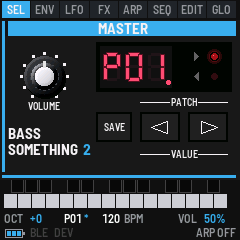
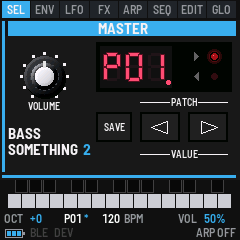
HOME: flat, centred panel and keys; manual and site open on HOME playing
HOME: the face plate flat (no shaded cheeks), zoomed so its bars sit 8 px
from each edge (HOME_L), the P01 display to its right edge, the scope 2 px
shorter for the panel's growth; the line over the keys solid from the left,
the Transpose and Function buttons gone. The keys' strip centred (8 px each
side), on every page.

Manual: section 8 opens on the RND Synth Companion splash; the opening
screenshot, the site's landing and its og:image are HOME with a note
playing (screen-home.png); screen-ready.png retired. Screenshots and
SIZE_LOG rows updated.

Changed region(s): [[0.0, 0.7292, 0.9625, 0.875]]

diff --git a/app.c b/app.c
@@ -4488,7 +4488,7 @@ static void level_col(int32_t i, float v, int32_t h)   /* -1..1 to the column's 
  * the sub's when it's in the mix: an octave or two under) from its steepest rising zero crossing, so a held note stands
  * still; scaled to its own level (a quiet sound as big), its trace with a
  * dim glow under it; a flat line in silence */
-enum { SC_X = 4, SC_Y = 59, SC_W = 232, SC_H = 31 };   /* (clear of the display's edge, over the panel's) */
+enum { SC_X = 4, SC_Y = 59, SC_W = 232, SC_H = 29 };   /* (clear of the display's edge, over the panel's) */
 static int scope_live(void) { return voice.amp.stage != ENV_IDLE; }
 static void scope_paint(void)
 {
@@ -4574,9 +4574,11 @@ static void cpu_text(char *t)                /* "CPU 34/41", "CPU 34/41 !2" */
  * wheels' left edge to the keys' right end, 125.4 of bgoonz/bass-station's rem, over the footer's 224 px: 25/14 px a
  * rem), its foot on them; each control where that layout has it (in tenths of its rem: h_*) and as the sound has it.
  * Over it the name and the display, large */
-#define HOME_Y 92                            /* the panel's top (its 38 rem down to the keys) */
-#define HL(r) ((r) * 25 / 140)               /* tenths of a rem: px */
-#define HX(r) (4 + HL((r) - 45))
+#define HOME_Y 90                            /* the panel's top (its 38 rem down to the keys) */
+#define HOME_L 8                             /* the panel's bars' margin, each side alike (63 .. 1293 tenths), as the
+                                              * keys' (keys_draw) */
+#define HL(r) ((r) * (240 - 2 * HOME_L) / 1230)   /* tenths of a rem: px */
+#define HX(r) (HOME_L + HL((r) - 63))
 #define HY(r) (HOME_Y + HL(r))
 static void h_rect(int32_t x, int32_t y, int32_t w, int32_t h, uint16_t c)   /* at least a pixel each way */
 {
@@ -4647,7 +4649,6 @@ static void home_draw(void)
 {
     static const int16_t TOP_GAP[3] = {333, 753, 924}, MID_GAP[4] = {333, 402, 693, 1140};
     static const int16_t KT_GAP[7] = {395, 526, 767, 860, 940, 982, 1062};
-    static const uint8_t CHEEK[8] = {4, 16, 28, 40, 45, 36, 28, 20};   /* across the left one, black to its ridge */
     static const uint8_t WAVE_LED[NWAVES] = {2, 3, 0, 1, 3};   /* WAVE_*: the LEDs' sine, triangle, saw, square */
     const param_t *osc = ui.osc_sel ? OSC2_P : PARAMS[PG_OSC], *env = ui.env_sel == 1u ? MENV_P : PARAMS[PG_AENV];
     const uint32_t f = patch.filter, acid = f == FLT_ACID, trig = patch.env_trig[ui.env_sel == 1u];
@@ -4662,17 +4663,14 @@ static void home_draw(void)
     slot_text(d + 1);
     if (ui.org_at)                           /* (a control just changed: its value) */
         seg_num(param_get(ui.org, &patch), d);
-    seg_display(140, 6, d, 3);
+    seg_display(240 - HOME_L - 84, 6, d, 3);   /* (its right edge the panel's: 84 wide) */
     if (set_dirty)
-        disc(214, 43, 2, RGB(252, 78, 112));
-    tag(184, 31, EN_PRESET);
+        disc(240 - HOME_L - 10, 43, 2, RGB(252, 78, 112));
+    tag(240 - HOME_L - 42, 31, EN_PRESET);
     scope_paint();                           /* (what plays and its tempo: the footer's) */
-    /* the panel: its face, the cheeks, the blue bars (their gaps, the lines down from them), the keys' strip */
+    /* the panel: its face (flat, as the theme: no cheeks), the blue bars (their gaps, the lines down from them), the
+     * keys' strip */
     cv_rect(0, HOME_Y, 240, pan_h - HOME_Y, grey(24));
-    for (i = 0; i < 8; i++) {
-        cv_rect(HX(0) + i, HOME_Y, 1, pan_h - HOME_Y, grey(CHEEK[i]));
-        cv_rect(HX(1365) - 1 - i, HOME_Y, 1, pan_h - HOME_Y, grey(CHEEK[i]));
-    }
     h_rect(63, 33, 1230, 15, P_BAR);
     h_rect(63, 190, 1230, 3, P_BAR);
     for (i = 0; i < 3; i++) {
@@ -4693,8 +4691,6 @@ static void home_draw(void)
         h_rect(KT_GAP[i], 343, 3, 3, grey(24));
     h_rect(70, 146, 110, 14, P_SILK);        /* the maker's name and the model's (print too small to read) */
     h_rect(70, 168, 105, 10, P_CYAN);
-    h_button(71, 345, 50, 17, grey(34));     /* Transpose, Function */
-    h_button(138, 345, 50, 17, grey(34));
     /* the MASTER: Volume, the display, the Org. Value LEDs, Save and the Patch buttons */
     {
         static const param_t VOL = {"VOLUME", 0, 0, 4095, 0};
@@ -4979,13 +4975,14 @@ static void keys_draw(void)                  /* the keys; the octave, the slot, 
     static const uint8_t WK[16] = PLAT_WHITE_KEYS, BK[11] = PLAT_BLACK_KEYS;
     /* black above white: a held key fills to its velocity (cyan), its pressure over that (white); a key whose note
      * MIDI in holds, all cyan */
+    enum { KX = (240 - (16 * 14 - 1)) / 2 }; /* (the sixteen white keys in the middle: 8 px each side, as HOME_L) */
     cv_begin(240, 60, P_BG);
     for (i = 0; i < 16u; i++)
-        key_cell(4 + (int32_t)i * 14, 14, 13, 14, WK[i], P_KEYW);
+        key_cell(KX + (int32_t)i * 14, 14, 13, 14, WK[i], P_KEYW);
     for (i = 0; i < 11u; i++) {
         static const uint8_t AT[11] = {0, 1, 2, 4, 5, 7, 8, 9, 11, 12, 14};   /* the white key each one follows */
-        cv_rect(4 + (int32_t)AT[i] * 14 + 7, 0, 13, 13, P_EDGE);
-        key_cell(4 + (int32_t)AT[i] * 14 + 8, 0, 11, 12, BK[i], P_KEYB);
+        cv_rect(KX + (int32_t)AT[i] * 14 + 7, 0, 13, 13, P_EDGE);
+        key_cell(KX + (int32_t)AT[i] * 14 + 8, 0, 11, 12, BK[i], P_KEYB);
     }
     octave_text(t);
     if (ui.hint_until && ui.hint)            /* a button's hint: on the keys, its middle where black meets white (off

diff --git a/site/make_site.py b/site/make_site.py
@@ -62,7 +62,7 @@ def meta(html, here):
             f'<meta property="og:type" content="website">\n<meta property="og:site_name" content="Bass Something 2">\n'
             f'<meta property="og:title" content="{title}">\n<meta property="og:description" content="{desc}">\n'
             f'<meta property="og:url" content="{URL}{here}">\n'
-            f'<meta property="og:image" content="{URL}manual/img/screen-ready.png">\n'
+            f'<meta property="og:image" content="{URL}manual/img/screen-home.png">\n'
             f'<meta property="og:image:alt" content="Bass Something 2 on the FM-1\'s screen: the HOME page">\n'
             f'<meta name="twitter:card" content="summary">\n')
     return html.replace("</title>", "</title>\n" + tags.rstrip("\n"), 1)

diff --git a/docs/MANUAL.md b/docs/MANUAL.md
@@ -10,7 +10,7 @@ TRS.
 It's also a companion for Cyma Forma's RND Synth (firmware 1.4): it keeps 32 of its patches as seeds with their locks
 (type, key, tracks), sends them back, and mixes its four tracks (see [RND Synth](#s8)).
 
-![The Bass Something 2 screen at rest: the section tabs, the HOME page (the name, the red P01 display, the whole Bass Station II panel), the keys, then OCT +0, P01, 120 BPM, VOL 50% and ARP OFF](img/screen-ready.png "Bass Something 2 at rest")
+![The Bass Something 2 screen with a note playing: the section tabs, the HOME page (the name, the red P01 display, the scope drawing the note's wave, the whole Bass Station II panel), the keys with the held one in cyan, then OCT +0, P01, 120 BPM, VOL 50% and ARP OFF](img/screen-home.png "Bass Something 2 playing")
 
 ---
 
@@ -608,6 +608,8 @@ Values beyond what an FM-1 control can reach are brought to its nearest.
 
 ## 8. RND Synth
 
+![The RND Synth Companion splash: the RND Synth and the FM-1 side by side on black between RND SYNTH and COMPANION in cyan](img/screen-rnd-splash.png "GLO held: the RND Synth Companion's splash")
+
 For owners of Cyma Forma's RND Synth (firmware 1.4 or later), Bass Something 2 is its companion and its remote. It
 keeps 32 of the RND Synth's patches and sends one back when you want it again, it sets what the RND Synth holds across
 new patches (its type, key and tracks), and it mixes the RND Synth's four tracks. None of this changes Bass Something
@@ -628,8 +630,6 @@ the keys' strip and the status line (octave, patch, volume) are hidden while the
 Opening them asks the RND Synth how it is (its firmware, its patch, its locks, its tracks), and each page shows it.
 As they open, a splash fills the screen for a moment: RND SYNTH, the RND Synth beside the FM-1, then COMPANION, in cyan. Any
 button or knob skips it.
-
-![The RND Synth Companion splash: the RND Synth and the FM-1 side by side on black between RND SYNTH and COMPANION in cyan](img/screen-rnd-splash.png "GLO held: the RND Synth Companion's splash")
 
 At the right of each page's own bar is the seed the RND Synth is playing (PLAYING F34E8559; NOT HEARD YET until it
 has answered).

diff --git a/docs/SIZE_LOG.md b/docs/SIZE_LOG.md
@@ -38,3 +38,8 @@ What each change costs on the FM-1, from the device build (`tools/build.py bs2`)
 | 2026-11-01 | c546dca+ | RND splash: the RND's acrylic corners whole | 329,552 | -192 | 252,012 | 77,396 | +0 | 20,908 | 102,832 |
 | 2026-11-01 | c546dca+ | RND splash drawn once while up (no flicker) | 329,424 | -128 | 252,140 | 77,396 | +0 | 20,908 | 102,832 |
 | 2026-11-01 | c546dca+ | RND splash: the devices 6 px right (the FM-1's screen) | 329,424 | +0 | 252,140 | 77,396 | +0 | 20,908 | 102,832 |
+| 2026-11-01 | fcfb3b8+ | HOME: Transpose/Function under the keys' line (solid) | 329,424 | +0 | 252,140 | 77,396 | +0 | 20,908 | 102,832 |
+| 2026-11-01 | fcfb3b8+ | HOME: flat face plate (no cheek shading) | 329,344 | -80 | 252,220 | 77,396 | +0 | 20,908 | 102,832 |
+| 2026-11-01 | fcfb3b8+ | HOME: panel zoomed to equal margins, display to its right edge, scope 2 px shorter | 329,360 | +16 | 252,204 | 77,396 | +0 | 20,908 | 102,832 |
+| 2026-11-01 | fcfb3b8+ | Keys strip centred (8 px each side), HOME panel's margin 8 to match | 329,360 | +0 | 252,204 | 77,396 | +0 | 20,908 | 102,832 |
+| 2026-11-01 | fcfb3b8+ | HOME: no Transpose/Function buttons; manual's RND section opens on its splash | 329,328 | -32 | 252,236 | 77,396 | +0 | 20,908 | 102,832 |

diff --git a/site/landing.md b/site/landing.md
@@ -6,7 +6,7 @@ II's 32 arp rhythms with its 32-step sequencer (four sequences) and 32 patches. 
 MIDI goes in and out over USB, Bluetooth and TRS. It's also a companion for Cyma Forma's RND Synth (firmware 1.4): 32
 seed slots with their locks, and a mixer for its four tracks.
 
-![Bass Something 2's HOME page: the BASS SOMETHING 2 name, the red P01 display, and the whole Bass Station II panel above the keys](manual/img/screen-ready.png "Bass Something 2 on the FM-1's screen")
+![Bass Something 2's HOME page with a note playing: the BASS SOMETHING 2 name, the red P01 display, the scope drawing the wave, and the whole Bass Station II panel above the keys](manual/img/screen-home.png "Bass Something 2 on the FM-1's screen")
 
 Version {{VERSION}}. Installing is at your own risk; the installer can put M-VAVE's own firmware back.
 
